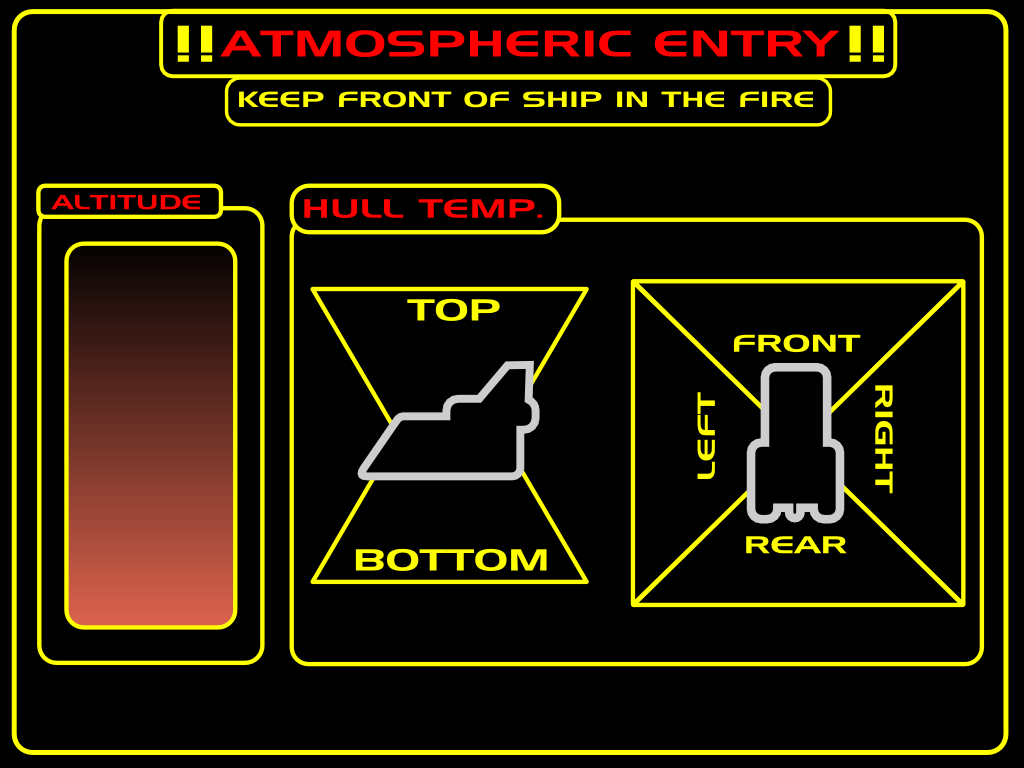
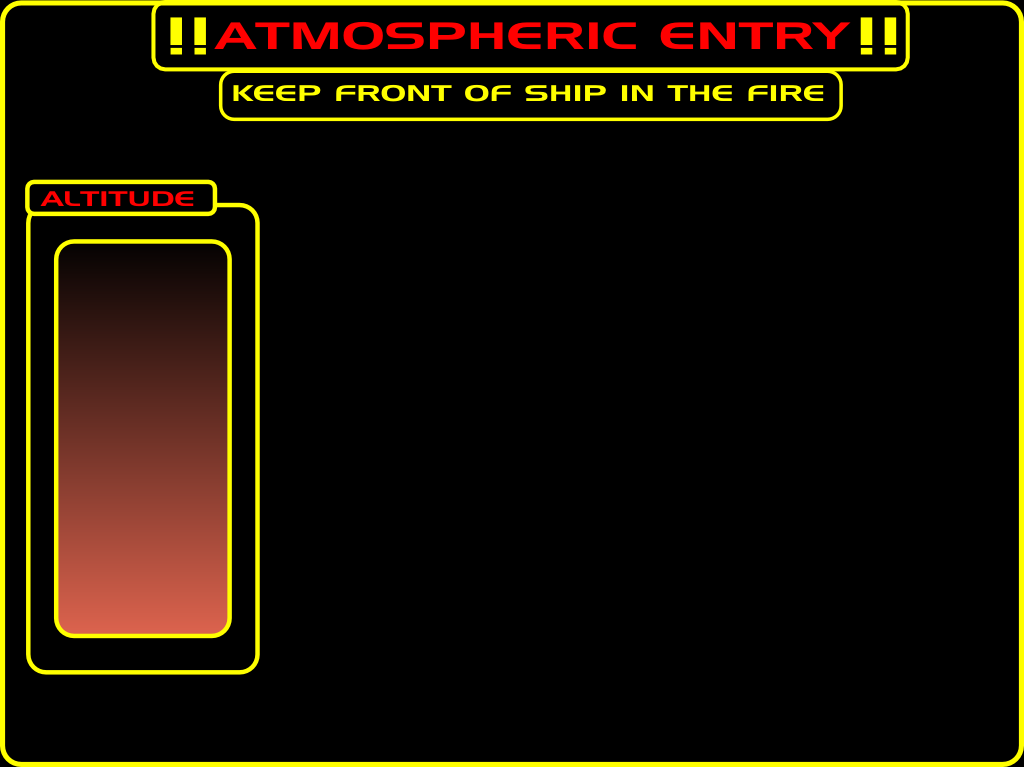
new graphics for drop screen, much easier to fly now

diff --git a/src/pilot/DropDisplay.java b/src/pilot/DropDisplay.java
@@ -10,10 +10,12 @@ import processing.core.PVector;
 import common.Display;
 import common.HardwareEvent;
 import common.PlayerConsole;
+import common.util.LerpedVector;
 
 public class DropDisplay extends Display {
 
 	PImage bg, structFailOverlay, fireballImg, turbulenceImg;
+	PImage overlayImage;
 
 	Point[] labelPos = new Point[6];
 	float[] temps = new float[6];
@@ -22,7 +24,7 @@ public class DropDisplay extends Display {
 	long lastUpdate = 0;
 	boolean structFail = false;
 
-	PVector fireVec = new PVector(0, 0, 0);
+	LerpedVector fireVec = new LerpedVector(new PVector(0,0,0),0,250f);
 	long turbulenceTime = 0;
 	long turbulenceDuration = 0;
 	
@@ -33,9 +35,9 @@ public class DropDisplay extends Display {
 		font = parent.getGlobalFont(); // loadFont("HanzelExtendedNormal-48.vlw");
 		structFailOverlay = parent
 				.loadImage("pilotconsole/structuralFailure.png");
-		fireballImg = parent.loadImage("pilotconsole/fireball.png");
+		fireballImg = parent.loadImage("pilotconsole/screens/drop/fireball.png");
 		turbulenceImg = parent.loadImage("pilotconsole/turbulence.png");
-
+		overlayImage = parent.loadImage("pilotconsole/screens/drop/overlay.png");
 
 		labelPos[0] = new Point(647,508);
 		labelPos[1] = new Point(422, 519);
@@ -60,96 +62,8 @@ public class DropDisplay extends Display {
 		if(alt < 2000 && parent.globalBlinker){
 			parent.getConsoleAudio().playClip("terrainAlert");
 		}
-		parent.textFont(font, 30);
-		for (int t = 0; t < 6; t++) {
-			Point p = labelPos[t];
-			if (temps[t] > 200) {
-				parent.fill(255, 0, 0);
-			} else if (temps[t] > 100 && temps[t] <= 200) {
-				parent.fill(255, 255, 0);
-			} else {
-				parent.fill(0, 255, 0);
-			}
-			parent.text((int) temps[t] + "c", p.x, p.y);
-		}
 
-		if (fireVec.z > 0) {
-			parent.tint(255, (int) (fireVec.z * 255));
-			int randX = (int) parent.random(fireVec.z * 5);
-			int randY = (int) parent.random(fireVec.z * 5);
-			parent.image(fireballImg, 707 + randX, 225 + randY,
-					fireballImg.width / 2, fireballImg.height / 2);
-		}
-		if (fireVec.z < 0) {
-			parent.tint(255, (int) (Math.abs(fireVec.z * 255)));
-			int randX = (int) parent.random(Math.abs(fireVec.z * 5));
-			int randY = (int) parent.random(Math.abs(fireVec.z * 5));
-			parent.pushMatrix();
-			parent.translate(712 + randX, 628+ randY);
-			parent.scale(1, -1);
-			parent.image(fireballImg, 0, 0, fireballImg.width / 2,
-					fireballImg.height / 2);
-			parent.popMatrix();
-		}
-		if (fireVec.x > 0) { // right
-			parent.tint(255, (int) (fireVec.x * 255));
-			int randX = (int) parent.random(fireVec.x * 5);
-			int randY = (int) parent.random(fireVec.x * 5);
-			parent.pushMatrix();
-			parent.translate(969 + randX, 357 + randY);
-			parent.rotate(PApplet.radians(90));
-			parent.image(fireballImg, 0, 0, fireballImg.width / 2,
-					fireballImg.height / 2);
-			parent.popMatrix();
-		}
-
-		if (fireVec.x < 0) { // left
-			parent.tint(255, Math.abs((int) (fireVec.x * 255)));
-			int randX = Math.abs((int) parent.random(fireVec.x * 5));
-			int randY = Math.abs((int) parent.random(fireVec.x * 5));
-			parent.pushMatrix();
-			parent.translate(607+ randX, 520 + randY);
-			parent.rotate(PApplet.radians(-90));
-			parent.image(fireballImg, 0, 0, fireballImg.width / 2,
-					fireballImg.height / 2);
-			parent.popMatrix();
-		}
-		if (fireVec.y > 0) { // top
-			parent.tint(255, (int) (fireVec.y * 255));
-			int randX = (int) parent.random(fireVec.y * 5);
-			int randY = (int) parent.random(fireVec.y * 5);
-			parent.pushMatrix();
-			parent.translate(371 + randX, 249 + randY);
-			// rotate(radians(90));
-			parent.image(fireballImg, 0, 0, fireballImg.width / 2,
-					fireballImg.height / 2);
-			parent.popMatrix();
-		}
-
-		if (fireVec.y < 0) { // top
-			parent.tint(255, Math.abs((int) (fireVec.y * 255)));
-			int randX = Math.abs((int) parent.random(fireVec.y * 5));
-			int randY = Math.abs((int) parent.random(fireVec.y * 5));
-			parent.pushMatrix();
-			parent.translate(538 + randX, 603 + randY);
-			parent.rotate(PApplet.radians(-180));
-			parent.image(fireballImg, 0, 0, fireballImg.width / 2,
-					fireballImg.height / 2);
-			parent.popMatrix();
-		}
-		parent.noTint();
-
-		if (turbulenceTime < parent.millis()
-				&& parent.millis() < turbulenceTime + turbulenceDuration) {
-
-			parent.image(turbulenceImg, 155, 410);
-
-		}
-
-		if (structFail) { // show the "structural failure" warning
-
-			parent.image(structFailOverlay, 128, 200);
-		}
+		
 		
 		
 		//alt meters
@@ -166,6 +80,68 @@ public class DropDisplay extends Display {
 		
 		
 		
+		
+		
+		
+		
+		parent.pushMatrix();
+		PVector p = PVector.mult(fireVec.getValue(parent.millis()), 100f);
+		p.x += 643;
+		p.y += 444;
+		parent.translate(p.x, p.y, p.z);
+		parent.fill(128,128,0);
+		parent.noStroke();
+		parent.rotate(parent.millis()*0.001f);
+		parent.scale(1f + parent.random(10)/80f);
+		parent.image(fireballImg, -50,-50,100,100);
+		parent.popMatrix();
+		
+		parent.pushMatrix();
+		parent.translate(643,444);
+		parent.stroke(255);
+		parent.line(-250,0,250,0);
+		parent.line(0,-250,0,250);
+		parent.noFill();
+		parent.ellipse(0, 0, 100,100);
+		parent.ellipse(0, 0, 250,250);
+
+		parent.popMatrix();
+		
+		
+		parent.hint(PApplet.DISABLE_DEPTH_TEST);
+		parent.image(overlayImage, 270,141);
+		//temp text
+		parent.textFont(font, 20);
+		parent.fill(255);
+		//left
+		parent.pushMatrix();
+		parent.translate(346,490);
+		parent.rotate(parent.radians(-90));
+		parent.text(String.format(" LEFT\n%.2fc", temps[2]), 0,0);
+		parent.popMatrix();
+		//right
+		parent.pushMatrix();
+		parent.translate(926,400);
+		parent.rotate(parent.radians(90));
+		parent.text(String.format("RIGHT\n%.2fc", temps[3]), 0,0);
+		parent.popMatrix();
+		
+		//top
+		parent.pushMatrix();
+		parent.translate(600,161);		
+		parent.text(String.format(" TOP\n%.2fc", temps[0]), 0,0);
+		parent.popMatrix();
+		
+		//bottom
+		parent.pushMatrix();
+		parent.translate(580,711);		
+		parent.text(String.format("BOTTOM\n  %.2fc", temps[0]), 0,0);
+		parent.popMatrix();
+
+		if (structFail) { // show the "structural failure" warning
+			
+			parent.image(structFailOverlay, 128, 200);
+		}
 	}
 
 	@Override
@@ -177,9 +153,10 @@ public class DropDisplay extends Display {
 			for (int t = 0; t < 6; t++) {
 				temps[t] = theOscMessage.get(1 + t).floatValue();
 			}
-			fireVec.x = theOscMessage.get(7).floatValue();
-			fireVec.y = theOscMessage.get(8).floatValue();
-			fireVec.z = theOscMessage.get(9).floatValue();
+			PVector temp = new PVector(	theOscMessage.get(7).floatValue(),
+										-theOscMessage.get(8).floatValue(),
+										theOscMessage.get(9).floatValue());
+			fireVec.update(temp, parent.millis());
 
 		} else if (theOscMessage
 				.checkAddrPattern("/scene/drop/structuralFailure") == true) {
